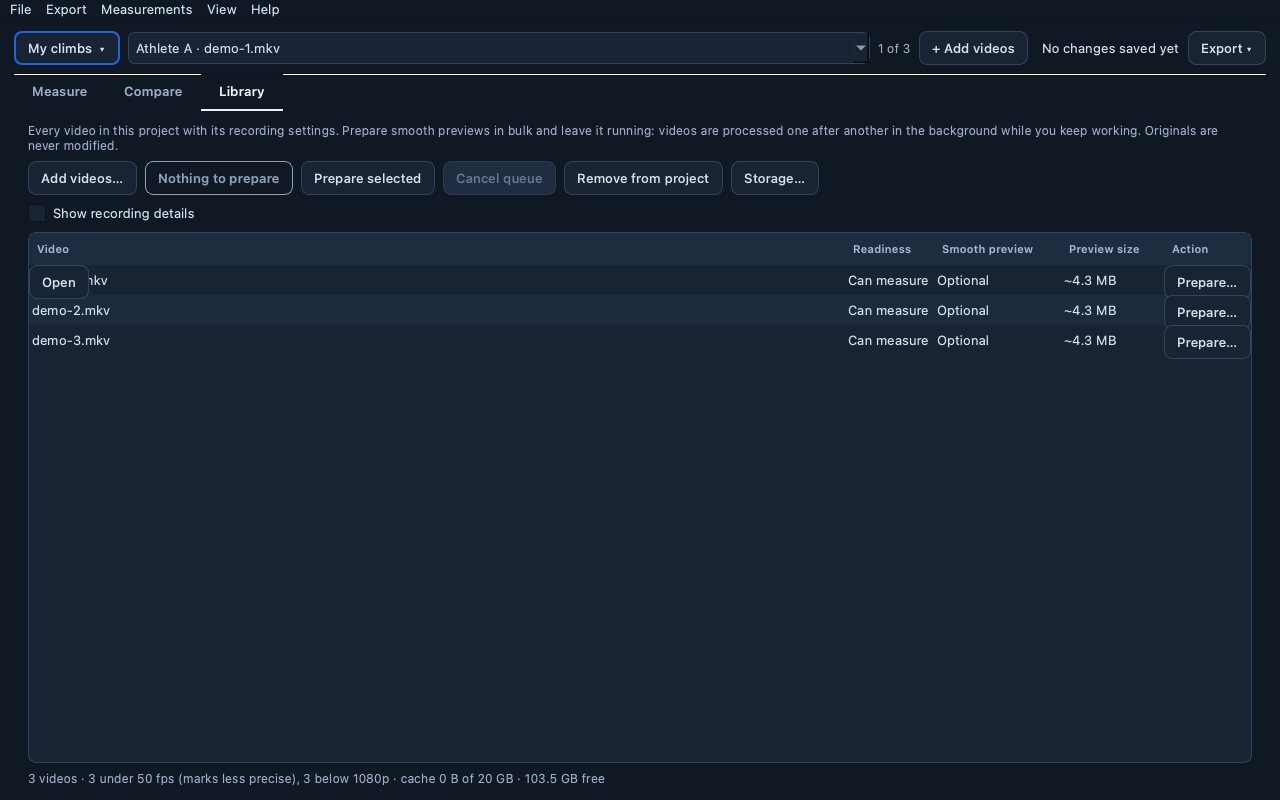
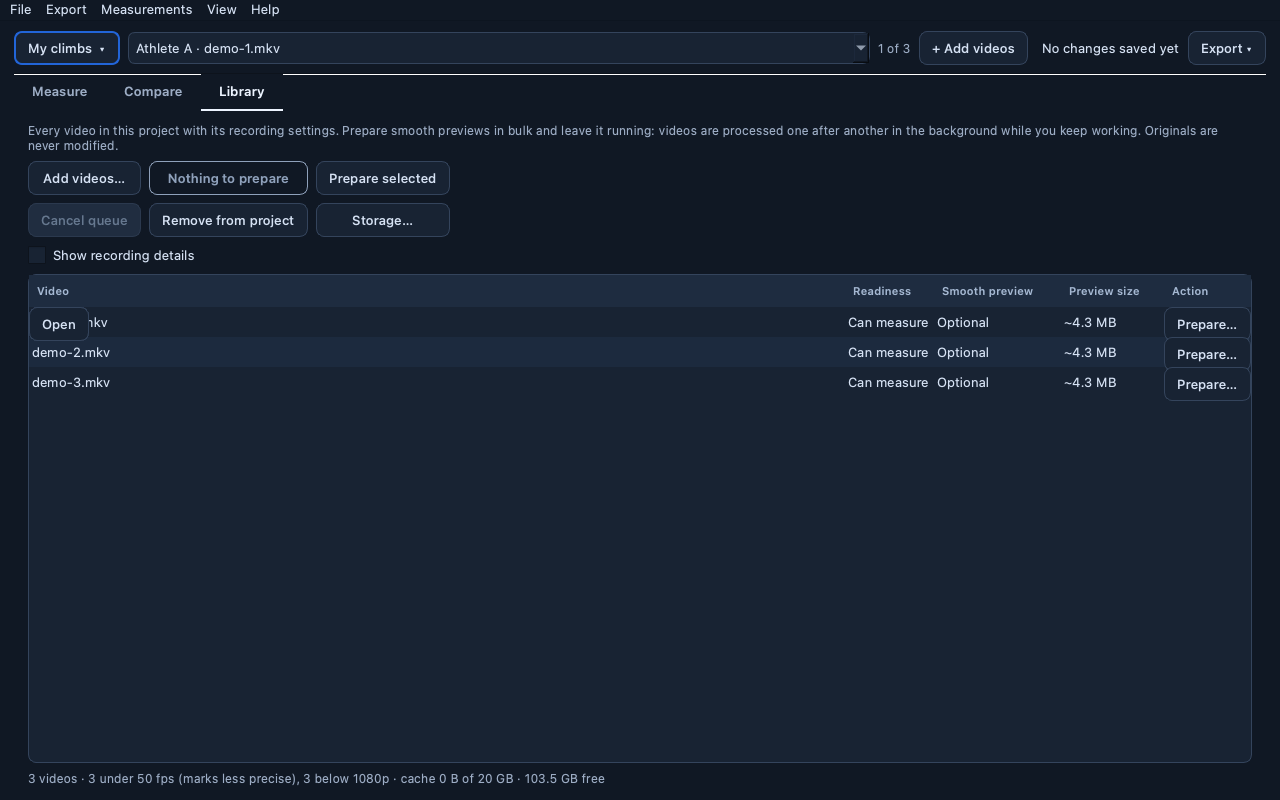
Match layout regression tests to the shipped application style

Changed region(s): [[0.0, 0.1875, 1.0, 0.5]]

diff --git a/viewer/test_release_020.py b/viewer/test_release_020.py
@@ -106,7 +106,9 @@ def test_route_selection_and_laptop_layout(tmp_path,monkeypatch):
     w.compare_scope.route.setCurrentText('Other route');assert len(w.comparison_documents)==1 and w.comparison_documents[0]['climber']=='Other'
     w.show_view(w.measure_page)
     from PySide6.QtTest import QTest
-    QTest.qWait(50);w.resize(1024,768);app.processEvents();assert w.width()==1024, [(type(x).__name__,x.minimumSizeHint().width(),x.minimumWidth(),x.width()) for x in (w,w.centralWidget(),w.main_tabs,w.measure_page,w.compare_page,w.sync_view,w.library,w.transport,w.measurement_scroll)]
+    QTest.qWait(50);w.resize(1024,768);app.processEvents()
+    names=('measure_page','transport','measurement_scroll','position','preview_button','image','active_timers','speed','timeline_zoom')
+    assert w.width()==1024, '\n'.join(f'{name}: minimum={getattr(w,name).minimumSizeHint().width()}, width={getattr(w,name).width()}' for name in names)
     assert w.position.visibleRegion().boundingRect().width()>=w.position.sizeHint().width()
     w.toggle_hand_timer('rest','left');w.toggle_inspector();app.processEvents();assert not w.measurement_scroll.isVisible() and w.active_timers.isVisible()
     w.close()

diff --git a/viewer/test_rebuild.py b/viewer/test_rebuild.py
@@ -13,7 +13,7 @@ def window(tmp_path,monkeypatch):
     import viewer.simple as simple,viewer.sync_view as sync
     monkeypatch.setattr(simple,'ROOT',tmp_path);monkeypatch.setattr(sync,'ROOT',tmp_path)
     settings=QSettings(str(tmp_path/'settings.ini'),QSettings.Format.IniFormat);monkeypatch.setattr(simple,'QSettings',lambda *a:settings)
-    app=QApplication.instance() or QApplication([]);w=simple.Window();w.workspace=Workspace(tmp_path/'workspace.json');w.async_decode=False;w.resize(1300,900);w.show();app.processEvents()
+    app=QApplication.instance() or QApplication([]);app.setStyle('Fusion');w=simple.Window();w.workspace=Workspace(tmp_path/'workspace.json');w.async_decode=False;w.resize(1300,900);w.show();app.processEvents()
     return app,w
 
 def test_empty_state_then_loaded_video_and_autosave_without_dialog(tmp_path,monkeypatch):
